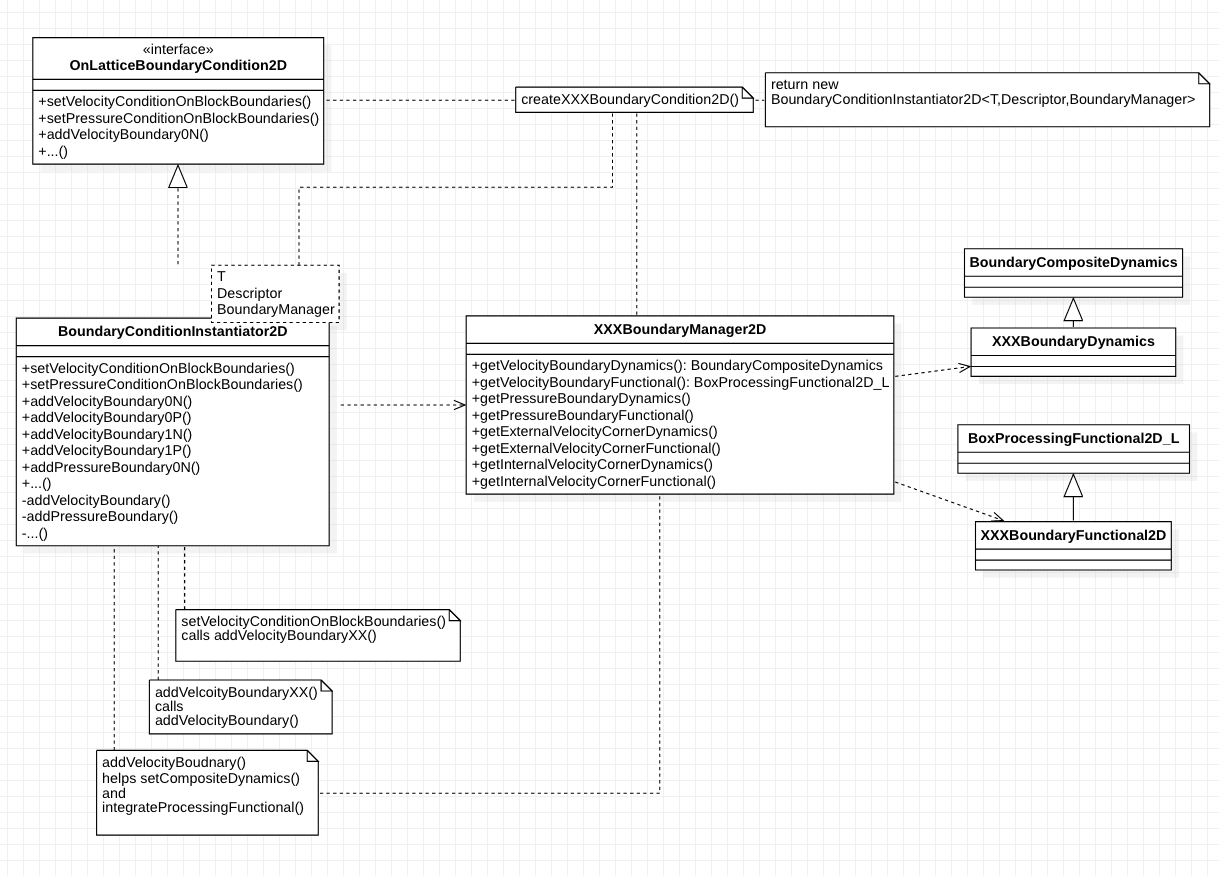
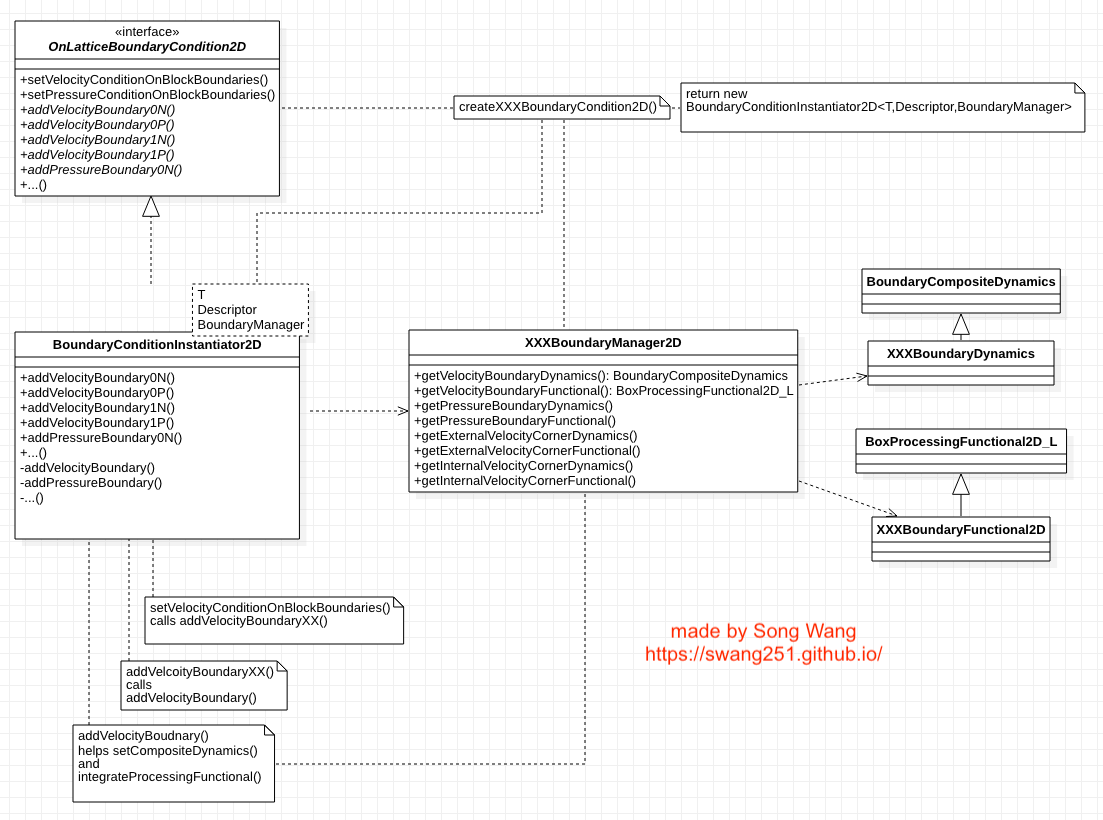
revised Palabos OnLatticeBoundaryCondition

diff --git a/source/_posts/Palabos-OnLatticeBoundaryCondition.md b/source/_posts/Palabos-OnLatticeBoundaryCondition.md
@@ -10,10 +10,49 @@ toc: true
 date: 2021-05-01 15:56:19
 ---
 The boundary conditions implemented in Palabos can be generally divided in two categories
+
 1. `OnLatticeBoundaryCondition`, mainly implemented in **src/boundaryCondition/**
+
 2. `OffLatticeModel`, mainly implemented in **src/offLattice/**
 
 This article mainly focuses on the `OnLatticeBoundaryCondition`.
 
 ![Class Diagram](/images/Palabos-OnLatticeBoundaryCondition/OnLatticeBoundaryCondition.png)
 <!--more-->
+
+## Basic structure
+- Here follows some key points of the structure:
+  1. `OnLatticeBoundaryCondition2D` is the base class, and is the one that is "visible" to users. It provides the functions to be called directly by users like 
+      - `setVelocityConditionOnBlockBoundaries()`
+	  - `setPressureConditionOnBlockBoundaries()`
+  2. The instantiator `BoundaryConditionInstantiator2D` inherits from `OnLatticeBoundaryCondition2D`
+      - The instantiator to me is a glue that binds the implementation to the user interface.
+      - The instantiator helps hide the detailed boundary implementation from the user. It provides specific boundary setup corresponding to different boundary positions in the domain.
+	  - It integrates the boundary condition to the main simulation setup by setting a composite dynamics using `setCompositeDynamics()`, and may (not) integrate a boundary functional through `integrateProcessingFunctional()`
+      - The instantiator `BoundaryConditionInstantiator2D` takes a **Boundary Manager** as one of its template parameters, and such a Boundary Manager is in charge of actual boundary operations.
+  3. `creatXXXBoundaryCondition2D()` is a factory funtion that returns an instance of `BoundaryConditionInstantiator2D`. One may find examples stored in `/src/boundaryCondition/boundaryCondition2D` like
+      - `createLocalBoundaryCondition2D()`
+      - `createDynamicsBasedLocalBoundaryCondition2D()`
+      - `createEquilibriumBoundaryCondition2D()`
+      - `createInterpBoundaryCondition2D()`
+	
+	  or others like `createZouHeBoundaryCondition2D()` saved separately in `/src/boundaryCondition/zouHeBoundary2D.h`
+  4. The **Boundary Manager** is the core of boundary condition implementation. 
+      - The boundary instantiator makes use of the boundary manager by taking it as a template parameter.
+      - There are two different ways of implementing the boundary condition:
+	    - create a composite dynamics
+	    - create a processor (boundary functional)
+	  - The boundary condition normally has both a **dynamics** class (`XXXBoundaryDynamics`) and a **processor** class (`XXXBoundaryFunctional2D`)
+	  
+## Take `zouHeBoundary2D` as an example
+
+1. The factory functions are in `/src/boundaryCondition/zouHeBoundary2D.h` named
+   - `createZouHeBoundaryCondition2D()`
+   - `createDynamicsBasedZouHeBoundaryCondition2D()`
+2. Each factory function returns a instance of `BoundaryConditionInstantiator2D` with different *Boundary Managers*
+   - `WrappedZouHeBoundaryManager2D`
+   - `ZouHeBoundaryManager2D`
+3. Each Boundary Manager has a series of functions named `getVelocityBoundaryDynamics()`, `getVelocityBoundaryFunctional()` and so on. Take the velocity boundary condition as an example, it returns (or not) either
+   - `ZouHeVelocityDynamics`, or 
+   - `WrappedLocalBoundaryFunctional2D`
+4. No matter how, they all leads to the `ZouHeClosure` function saved in `/src/boundaryCondition/zouHeDynamics.hh`, where the core of the algorithm sits.
